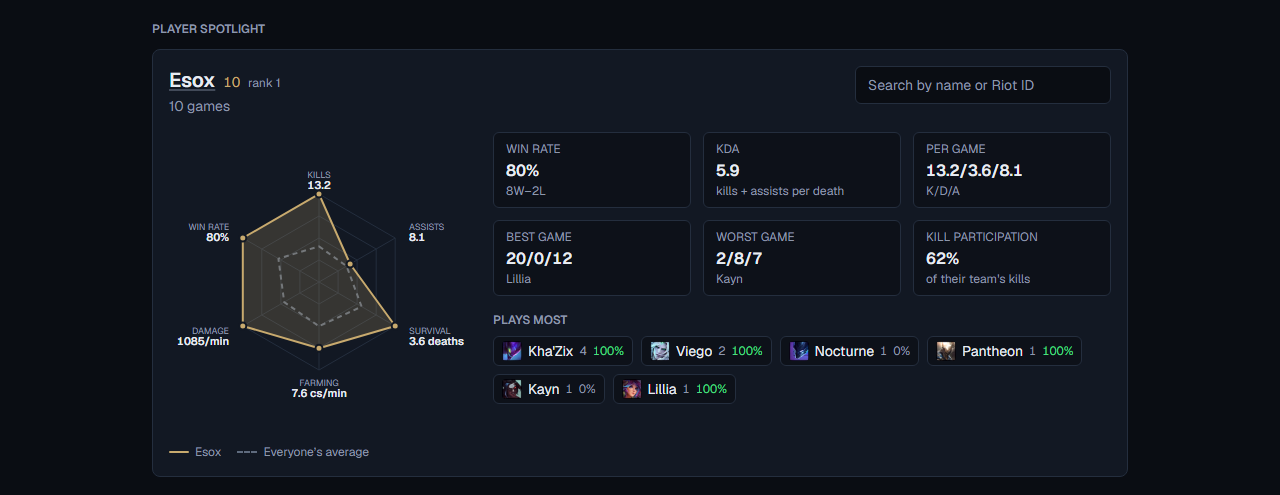
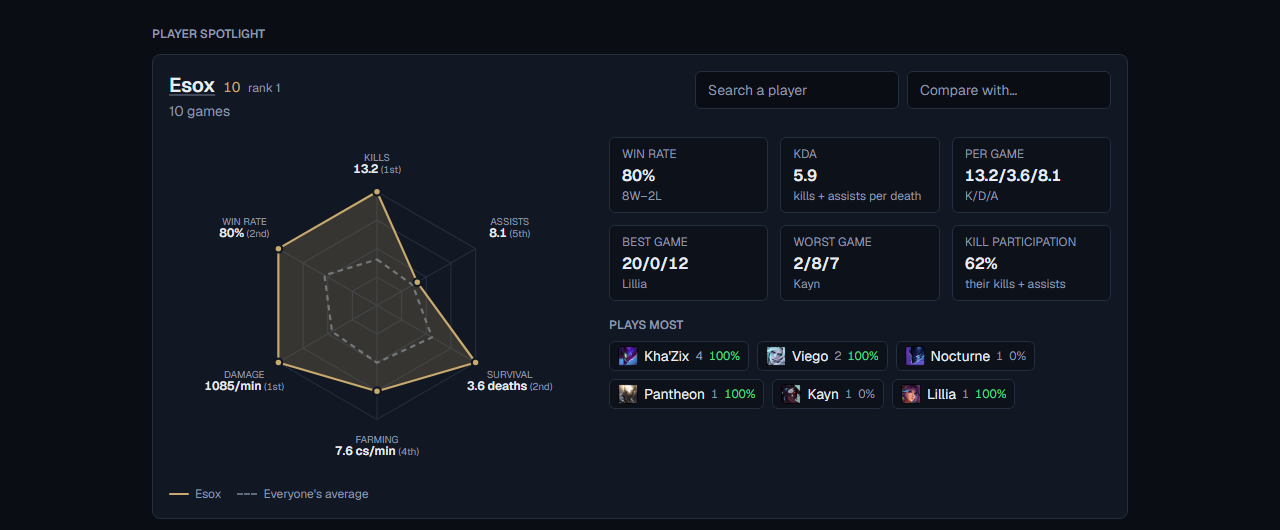
Show the head to head in the README
A screenshot of a comparison, a fresh one of the spotlight now that
each axis carries where its figure places, and the two paragraphs that
had gone stale: the chart is two charts depending on what it is asked
to do, and the records behind a comparison are one pass over every
game.

diff --git a/README.md b/README.md
@@ -29,12 +29,21 @@ flattering themselves with a 100% from one win.
 ![The stats page ladder](docs/ladder.png)
 
 **One player against everyone else.** The gold shape is the player, the dashed
-one is the group's average. Someone who mostly plays support gets Vision in
-place of Farming, because CS says nothing about how they played. Pick a second
-player and it becomes a head to head: the record against each other, the
-record as teammates, and both shapes on one chart.
+one is the group's average, and each axis carries the figure and where it
+places among everyone measured the same way. Someone who mostly plays support
+gets Vision in place of Farming, because CS says nothing about how they
+played.
 
 ![The player spotlight, with a six-axis radar chart](docs/spotlight.png)
+
+**Two players against each other.** Pick a second and the panel becomes a head
+to head: how they have done against each other, how they have done as
+teammates, both shapes on one chart, and the figures facing each other with
+whoever leads each row picked out. Where the two are not measured the same way
+— a support's vision against a laner's CS — that axis is dropped rather than
+compared, leaving a five-sided chart.
+
+![Two players compared, with both shapes on one chart](docs/head-to-head.png)
 
 ## What it does
 
@@ -43,7 +52,7 @@ record as teammates, and both shapes on one chart.
 | **New game** | Pick ten players, get the three best team splits with suggested roles |
 | **Players** | The roster: a power level and a comfort level per role |
 | **History** | Past games, line-ups in role order, full scorelines |
-| **Stats** | The ladder, a per-player radar spotlight, and assorted records |
+| **Stats** | The ladder, a per-player radar spotlight, head to heads, and assorted records |
 
 Reading is public. Every write is behind a login.
 
@@ -106,13 +115,22 @@ counting those games quietly punished whoever filled. Someone who supports more
 often than not gets a Vision axis on their radar in place of Farming, scaled
 against the other supports rather than against laners' CS.
 
-**The radar is checked, not eyeballed.** It is an emphasis chart, not a
-categorical one: the player is the subject in the accent colour and the group
-average is recessive context, a dashed outline with no fill — so the two never
-depend on colour alone to be told apart. Every axis carries its own value as
-text, which means the shape is readable without comparing areas by eye. The
-palette went through a colour-blindness validator rather than a glance; an
-earlier version failed it and was replaced.
+**The radar changes type with its job.** Against the group it is an *emphasis*
+chart: the player is the subject in the accent colour and the average is
+recessive context, a dashed outline with no fill. Against another player it is
+a *categorical* one — two equals — so the second shape takes a hue of its own
+and the same weight. Either way the two never depend on colour alone to be
+told apart, and every axis carries its figure as text, so the shapes are
+readable without comparing areas by eye. Both palettes went through a
+colour-blindness validator rather than a glance; an earlier one failed it and
+was replaced.
+
+**The records behind a head to head are one pass over every game.** Ten
+players make forty-five pairs, so the work grows with games played rather than
+with the roster, and the whole table is handed to the browser — switching
+opponent costs no round trip. Only games with a recorded winner count towards
+a record: a 3-0 that quietly included two unfinished games would be worse than
+no record at all.
 
 **Auth is one password, not an auth provider.** scrypt for the hash, a signed
 JWT in an HttpOnly SameSite=Lax cookie, and a guard inside every mutating
